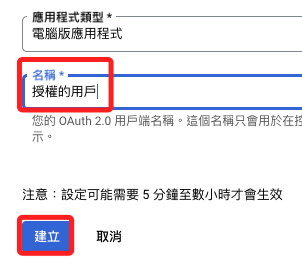
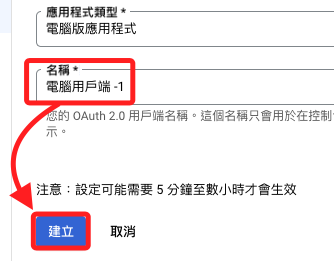
sss

Changed region(s): [[0.0298, 0.0, 1.0, 1.0]]

diff --git a/D31_Google Gemini/01_官方說明/05_建立 OAuth.md b/D31_Google Gemini/01_官方說明/05_建立 OAuth.md
@@ -18,19 +18,47 @@ _可參考 [官方說明](https://ai.google.dev/gemini-api/docs/oauth?hl=zh-tw)_
 
 <br>
 
-3. 點擊 `建立憑證` 展開選單，接著點 `OAuth 客戶端 ID`。
+3. 點擊 `專案選單`，在彈出的視窗中，可點擊 `新增專案` 或 `選取現有專案`。
+
+    ![](images/img_77.png)
+
+<br>
+
+## 新增專案
+
+1. 點擊 `新增專案` 後，輸入 `專案名稱`，接著點擊 `建立`。
+
+    ![](images/img_78.png)
+
+<br>
+
+2. 完成時在 `通知` 中會顯示相關資訊。
+
+    ![](images/img_79.png)
+
+<br>
+
+3. 回到 `憑證` 畫面後，務必選取正確的專案再進行後續步驟。
+
+    ![](images/img_80.png)
+
+<br>
+
+## 建立憑證
+
+1. 點擊 `建立憑證` 展開選單，接著點 `OAuth 客戶端 ID`。
 
     ![](images/img_26.png)
 
 <br>
 
-4. 點擊 `設定同意畫面`。
+2. 點擊 `設定同意畫面`，這裡的訊息是說明 `客戶端 ID` 用於向 `Google` 的 `OAuth 伺服器` 識別 `單一應用程式`，如果應用程式會在多個平台上運行，則每個平台都需要設定獨立的客戶端 ID。
 
     ![](images/img_27.png)
 
 <br>
 
-5. 因為是自行開發和學習使用 Google Cloud 服務，建議選擇 `External` 方式，接著點擊 `建立`。
+3. 當前專案是用於學習使用 Google Cloud 服務，所以選擇 `External` 方式即可，接著點擊 `建立`。
 
     ![](images/img_28.png)
 
@@ -38,13 +66,13 @@ _可參考 [官方說明](https://ai.google.dev/gemini-api/docs/oauth?hl=zh-tw)_
 
 ## 應用程式資訊
 
-1. 在 `應用程式名稱` 欄位中，輸入 `Project2024-01`，並透過下拉選單選擇電子郵件。
+2. 在 `應用程式名稱` 欄位中，輸入 `Project20240622-1`，並透過下拉選單選擇電子郵件。
 
     ![](images/img_29.png)
 
 <br>
 
-2. 輸入 `開發人員聯絡資訊` 後點擊 `儲存並繼續`。
+3. 在 `開發人員聯絡資訊` 輸入自己的電子郵件地址，這適用於專案有異動時的通知，然後點擊 `儲存並繼續`。
 
     ![](images/img_43.png)
 
@@ -52,31 +80,41 @@ _可參考 [官方說明](https://ai.google.dev/gemini-api/docs/oauth?hl=zh-tw)_
 
 ## Edit app registration
 
-1. 在 `授權範圍` 部分，你可以略過新增範圍，直接點擊 `儲存並繼續`；之後需要為應用程式新增範圍，可以在此步驟進行修改和驗證。
+1. 在 `授權範圍` 部分，點擊 `新增或移除範圍`，並在彈出的視窗中全選即可；若略過新增範圍設定，之後遇到需要為應用程式新增範圍時，再透過此步驟進行修改和驗證即可。
 
     ![](images/img_44.png)
 
 <br>
 
-2. 點擊 `+ ADD USERS`，在跳出的視窗中，輸入自己及其他授權測試的使用者郵件地址，並點擊 `新增`。
+2. 接著點擊彈出視窗左下角的 `更新` 關閉彈出視窗，接著滑動到下方點擊 `儲存並繼續`。
+
+    ![](images/img_81.png)
+
+<br>
+
+3. 點擊 `+ ADD USERS`，在跳出的視窗中，輸入自己及其他授權測試的使用者郵件地址，並點擊 `新增`。
 
     ![](images/img_45.png)
 
 <br>
 
-3. 點擊 `儲存並繼續`。
+4. 點擊 `儲存並繼續`。
 
     ![](images/img_46.png)
 
 <br>
 
-4. 點擊回到主控台 `BACK TO DASHBOARD`。
+5.  滑動到下方，點擊回到主控台 `BACK TO DASHBOARD`。
 
     ![](images/img_47.png)
 
 <br>
 
-## 
+## 回到憑證頁籤
+
+_完成前一個步驟時會在 `OAuth 同意畫面` 頁籤_
+
+<br>
 
 1. 再次點擊 `建立憑證`，選取 `OAuth 客戶端 ID`。
 
@@ -90,7 +128,7 @@ _可參考 [官方說明](https://ai.google.dev/gemini-api/docs/oauth?hl=zh-tw)_
 
 <br>
 
-3. 輸入名稱，依照畫面說明 `您的 OAuth 2.0 用戶端名稱。這個名稱只會用於在控制台中識別用戶端，不會向使用者顯示`，然後點擊 `建立`。
+3. 輸入名稱或使用預設的 `電腦用戶端 -1`，依照畫面說明 `您的 OAuth 2.0 用戶端名稱。這個名稱只會用於在控制台中識別用戶端，不會向使用者顯示`，然後點擊 `建立`。
 
     ![](images/img_50.png)
 
@@ -102,15 +140,23 @@ _可參考 [官方說明](https://ai.google.dev/gemini-api/docs/oauth?hl=zh-tw)_
 
 <br>
 
-5. 在下載資料夾中會看到這個憑證，這是一個 `JSON` 文件。
+## 進入檔案管理
+
+1. 在 `下載資料夾` 中會看到這個憑證，這是一個 `JSON` 文件。
 
     ![](images/img_31.png)
 
 <br>
 
-6. 這個文件預設的名稱太長，可修改為 `client_secret.json`。
+2. 這個文件預設的名稱太長，可修改為 `client_secret.json`。
 
     ![](images/img_32.png)
+
+<br>
+
+3. 將這個密鑰文件複製到接下來的程式碼範例資料夾中，並將檔案名稱加入 `.gitignore` 文件中，假如文件不存在則進行新增，建議無論是否使用版本控制，皆預先進行這個步驟。
+
+    ![](images/img_82.png)
 
 <br>
 
